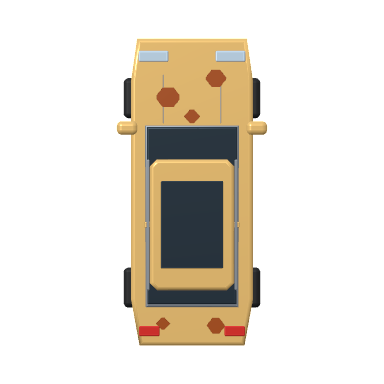
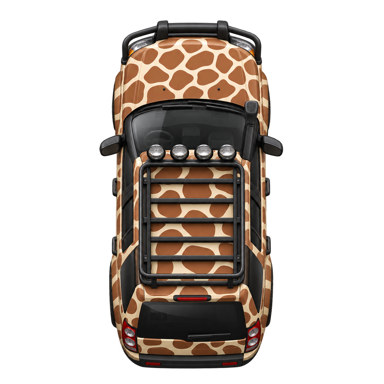
Replace giraffe Discovery map marker with detailed 3D render

diff --git a/docs/JOURNAL.md b/docs/JOURNAL.md
@@ -23,6 +23,34 @@
 
 ## Хроника
 
+### 2026-11-10 — Подробный жирафовый Discovery на карте, build 11
+
+По замечанию владельца заменена схематичная миниатюра giraffe-discovery.
+Новый рендер создан встроенным imagegen по собственной машине из каталога;
+стилевые референсы — существующие MapIconTyre и MapIconService. Вид сверху,
+нос вверх, объёмные стёкла, багажник, дополнительные фары и жирафовая окраска.
+PNG 384×384 с прозрачностью; мастер и точный prompt сохранены в
+`tools/map-icons/overrides/`. render-cars.sh восстанавливает эту версию после
+процедурной генерации. Остальные 180 машин и логика выбора не изменены.
+Figma 46584:130 обновлена, рендер просмотрен; описание источника дополнено.
+
+Проверено: xcodebuild test -project Beepy.xcodeproj -scheme AppMVP
+-configuration Debug -destination 'platform=iOS Simulator,id=79420072-75AF-4CB6-B8F5-C923C728601A'
+-derivedDataPath /private/tmp/beepy-rights-dd
+-only-testing:BeepyUITests/FlowTests/testMapMileageCarPreview
+-resultBundlePath /private/tmp/beepy-giraffe11b.xcresult — TEST SUCCEEDED.
+Временная тестовая машина Discovery и запуск с location.enabled YES
+восстановлены после снимка; исходники теста и TripTracker не изменены.
+Кадр карты с новой машиной визуально проверен после выдачи разрешения
+геопозиции симулятору. Первый кадр был без геопозиции и не использован.
+
+xcodebuild build -project Beepy.xcodeproj -scheme AppMVP -configuration Debug
+-destination 'platform=iOS,id=00008130-000A38DA0E04001C'
+-derivedDataPath /Users/vladislavkotyrev/Library/Developer/Xcode/DerivedData/beepy-device
+-allowProvisioningUpdates — BUILD SUCCEEDED. devicectl подтвердил установку
+build 11 поверх приложения на iPhone 15 Pro. Запуск отклонён iOS: Locked.
+Данные не удалялись; физическая поездка не проверялась; ASC не обновлялся.
+
 ### 2026-11-08 — Ссылки Яндекса, кэш адресов и build 5
 
 - AboutPage: две открываемые ссылки на официальные условия Яндекса.

diff --git a/tools/map-icons/overrides/giraffe-discovery.md b/tools/map-icons/overrides/giraffe-discovery.md
@@ -1,0 +1,25 @@
+# Discovery: detailed map marker, 2026-11-10
+
+Generated with the built-in image_gen tool, transparent background. Identity reference:
+Resources/CarCatalog/giraffe-discovery.heic. Style references: MapIconTyre and MapIconService.
+Source PNG is retained here; runtime PNG is Resources/MapCars/giraffe-discovery.png (384×384).
+render-cars.sh restores this override after procedural rendering.
+
+Prompt:
+
+Create one polished production 3D car map marker, isolated on genuine transparent background.
+Subject identity reference image 1: Land Rover Discovery 3/4 with giraffe wrap, black expedition
+roof basket, four auxiliary lamps above windshield, snorkel and front bullbar. References 2 and
+3 define existing map-icon style: softly bevelled sculptural 3D, physically based rubber/metal/glass,
+soft upper-left studio key light, restrained highlights, crisp silhouette readable at 56 points.
+Replace the old simplistic box aesthetic with a recognizable carefully modeled Discovery.
+Camera: almost directly overhead, at 80 degrees elevation, front/nose pointing exactly UP along
+the vertical image axis (north), no diagonal yaw, visible hood at TOP, rear at BOTTOM. Entire car
+including mirrors fits centered in a square canvas with around 10% padding at each end; car length
+about 80% canvas. Cream ivory body covered with large irregular organic warm brown giraffe patches
+on hood AND roof, authentic elongated boxy Discovery silhouette, roof basket visibly dimensional
+but clean/simple enough for a small marker. Dark smoked reflective windscreen, windows and tyres.
+Strong separation of bonnet, windscreen, roof rack, rear. Smooth premium realistic miniature rendering
+matching provided tyre and wrench icons. Not pixel art, not flat vector, not crude rectangular
+primitives, no label, no written text, no ground plane, no scenic background, no square plate behind
+the car. Real transparent alpha, only a very subtle contact shadow if needed.
